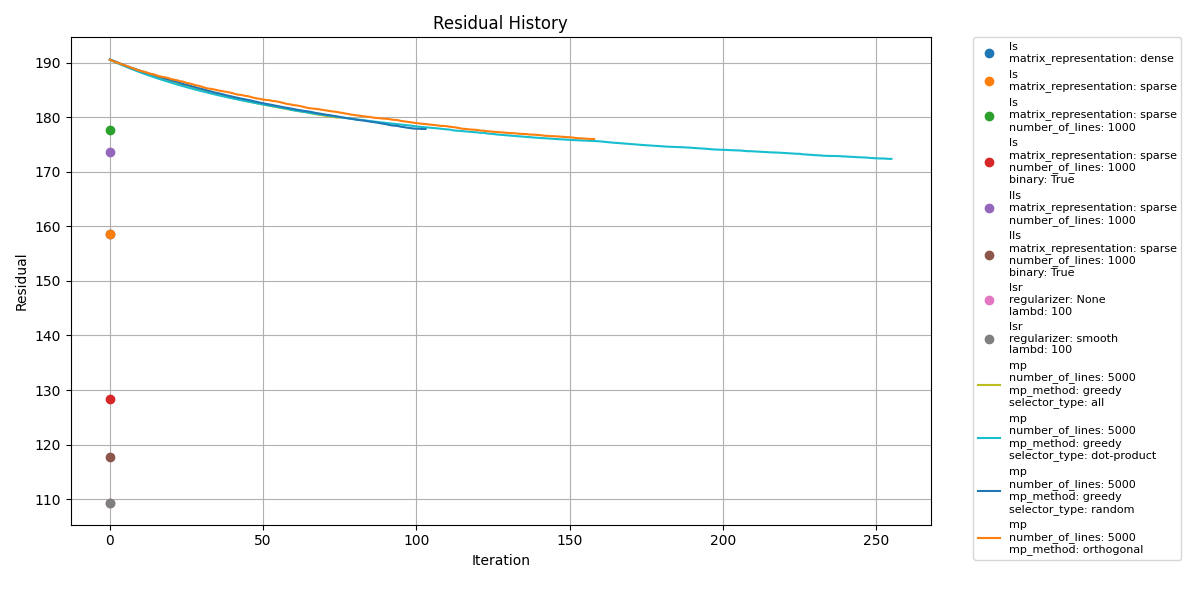
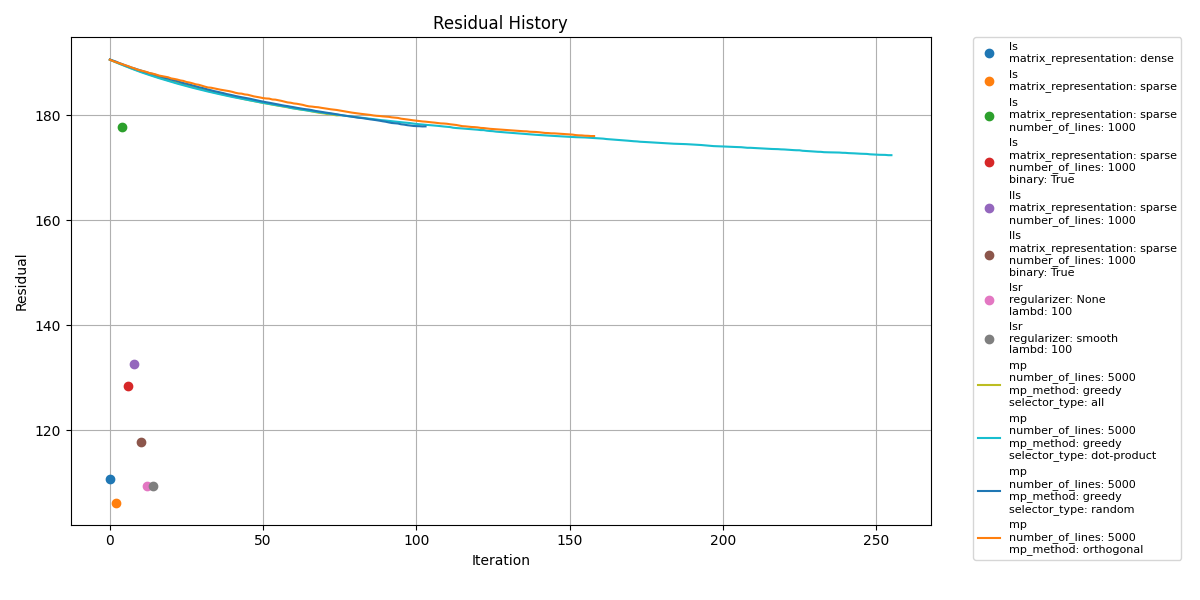
fix: some analyzer nitpicks

diff --git a/stringart/utils/perf_analyzer.py b/stringart/utils/perf_analyzer.py
@@ -8,18 +8,15 @@ from pathlib import Path
 from typing import Callable, List
 
 import matplotlib.pyplot as plt
+import matplotlib.ticker as ticker
 import numpy as np
 from matplotlib.colors import Colormap
 from skimage import io
 from skimage.metrics import normalized_root_mse
 from stringart.solver import Solver
 from stringart.utils.image import ImageWrapper, crop_image
-from stringart.utils.time_memory_format import (
-    convert_memory_size,
-    convert_monotonic_time,
-    format_memory_size,
-    format_time,
-)
+from stringart.utils.time_memory_format import (convert_memory_size, convert_monotonic_time, format_memory_size,
+                                                format_time)
 from stringart.utils.types import CropMode, ElapsedTime, MemorySize, Rasterization
 from tqdm import tqdm
 
@@ -475,13 +472,19 @@ class Benchmark:
         monotonic_time = [benchmark.elapsed_monotonic_time for benchmark in benchmarks]
         memory_size = [benchmark.peak_memory_usage / (1024**2) for benchmark in benchmarks]
 
-        def plot_bar_graph(name: str, ylabel: str, values: List | np.ndarray, color: str = "skyblue") -> None:
+        def plot_bar_graph(
+            name: str, ylabel: str, values: List | np.ndarray, color: str = "skyblue", log_scale: bool = False
+        ) -> None:
             plt.figure(figsize=(10, 6))
 
-            plt.bar(labels, values, color=color)
+            bar_width = 0.6
+            plt.bar(labels, values, color=color, width=bar_width)
 
             plt.xlabel("Solvers")
             plt.ylabel(ylabel)
+
+            if log_scale:
+                plt.yscale("log")
 
             plt.xticks(rotation=45)
             plt.tight_layout()
@@ -490,7 +493,7 @@ class Benchmark:
             plt.show()
 
         # time plot
-        plot_bar_graph("Time Usage", "Time (s)", monotonic_time, "skyblue")
+        plot_bar_graph("Time Usage", "Time (s)", monotonic_time, "skyblue", log_scale=True)
         # memory plot
         plot_bar_graph("Memory Usage", "Memory (MB)", memory_size, "orange")
 
@@ -558,9 +561,9 @@ def plot_residuals(y_data: List[np.ndarray], labels: List[str], plot_name: str, 
 
     fig, ax = plt.subplots(figsize=(12, 6))
 
-    for y, label in zip(y_data, labels):
+    for idx, (y, label) in enumerate(zip(y_data, labels)):
         if len(y) == 1:
-            ax.plot(0, y[0], "o", label=label)
+            ax.plot(2 * idx, y[0], "o", label=label)
         else:
             ax.plot(range(len(y)), y, label=label)
 

diff --git a/stringart/solver.py b/stringart/solver.py
@@ -190,7 +190,7 @@ class Solver:
         if number_of_lines is not None:
             x = self.post_process_x(x, self.get_number_of_lines(number_of_lines, A.shape), binary)
 
-        if self.residual_fn is not None:
+        if self.residual_fn is not None and binary == True:
             residual, _ = self.residual_fn(x)
         else:
             residual = np.linalg.norm(self.b - A @ x)
@@ -240,7 +240,7 @@ class Solver:
         if number_of_lines is not None:
             x = self.post_process_x(x, self.get_number_of_lines(number_of_lines, A.shape), binary)
 
-        if self.residual_fn is not None:
+        if self.residual_fn is not None and binary == True:
             residual, _ = self.residual_fn(x)
         else:
             residual = np.linalg.norm(self.b - A @ x)
